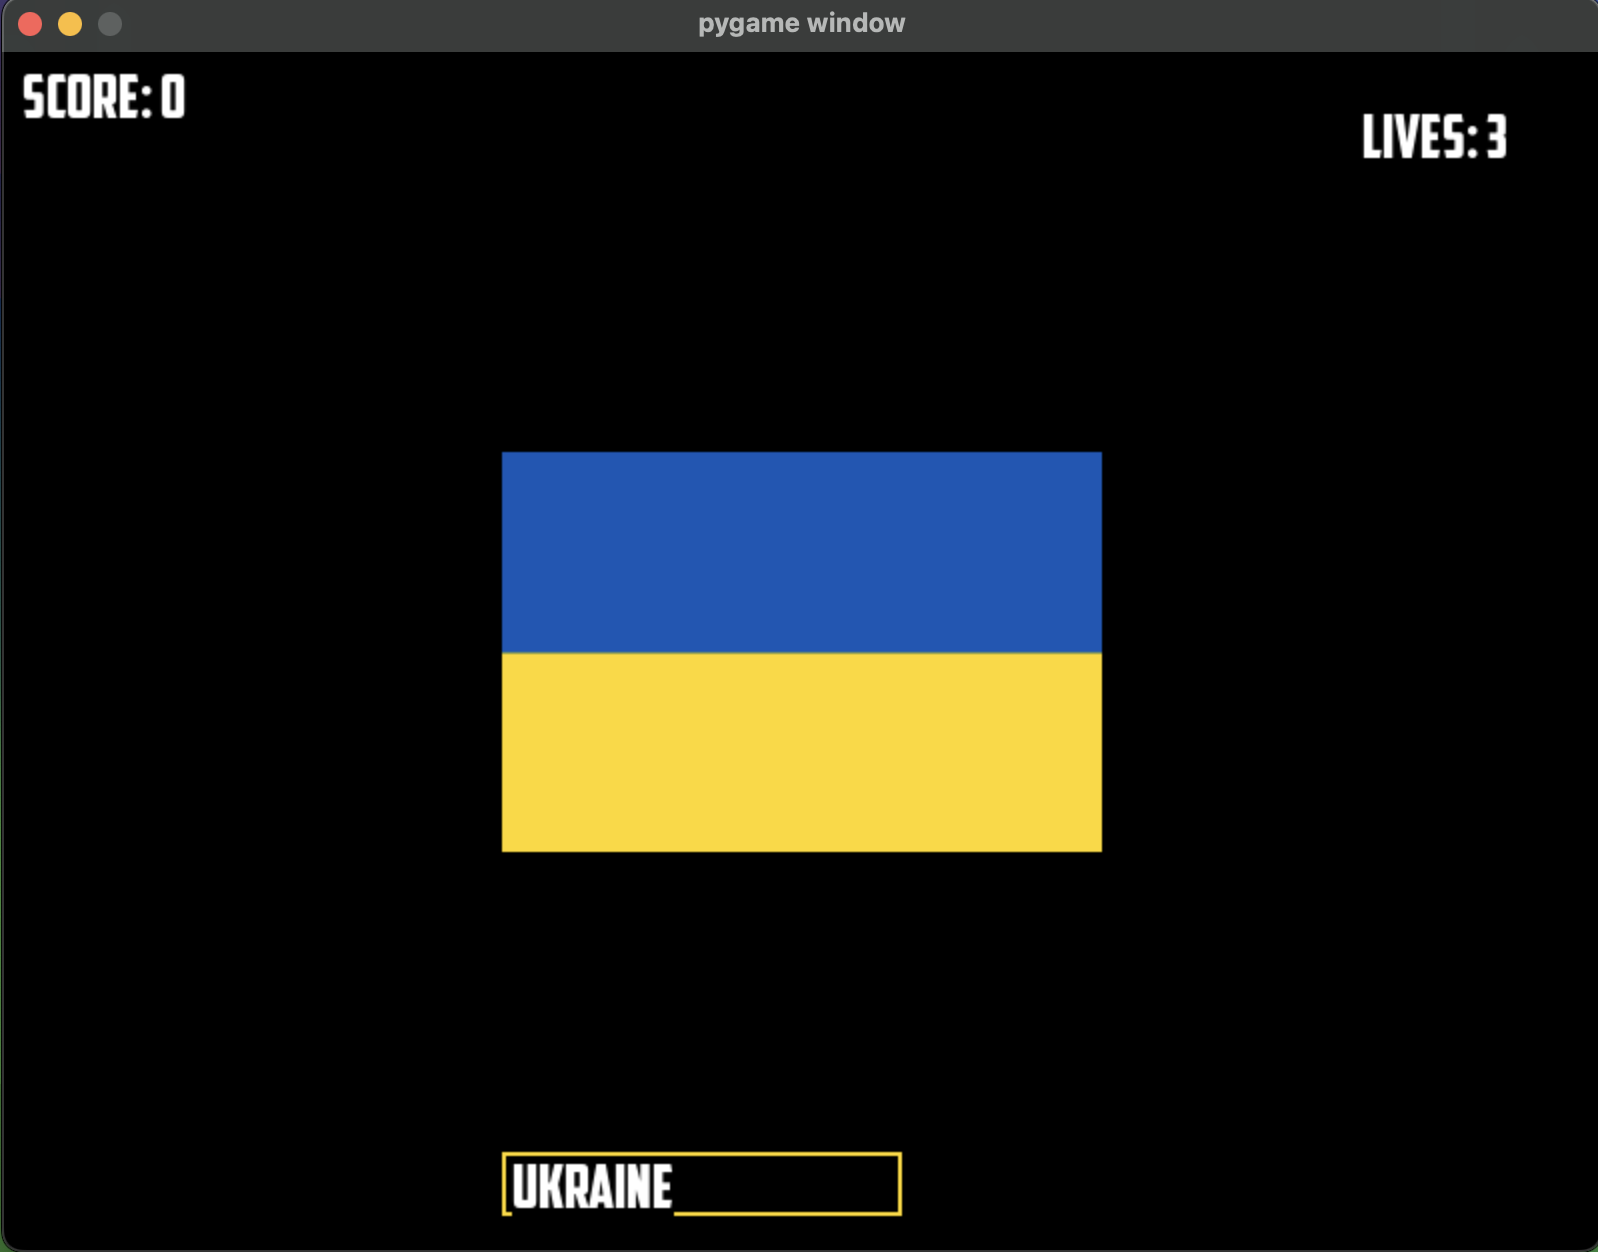
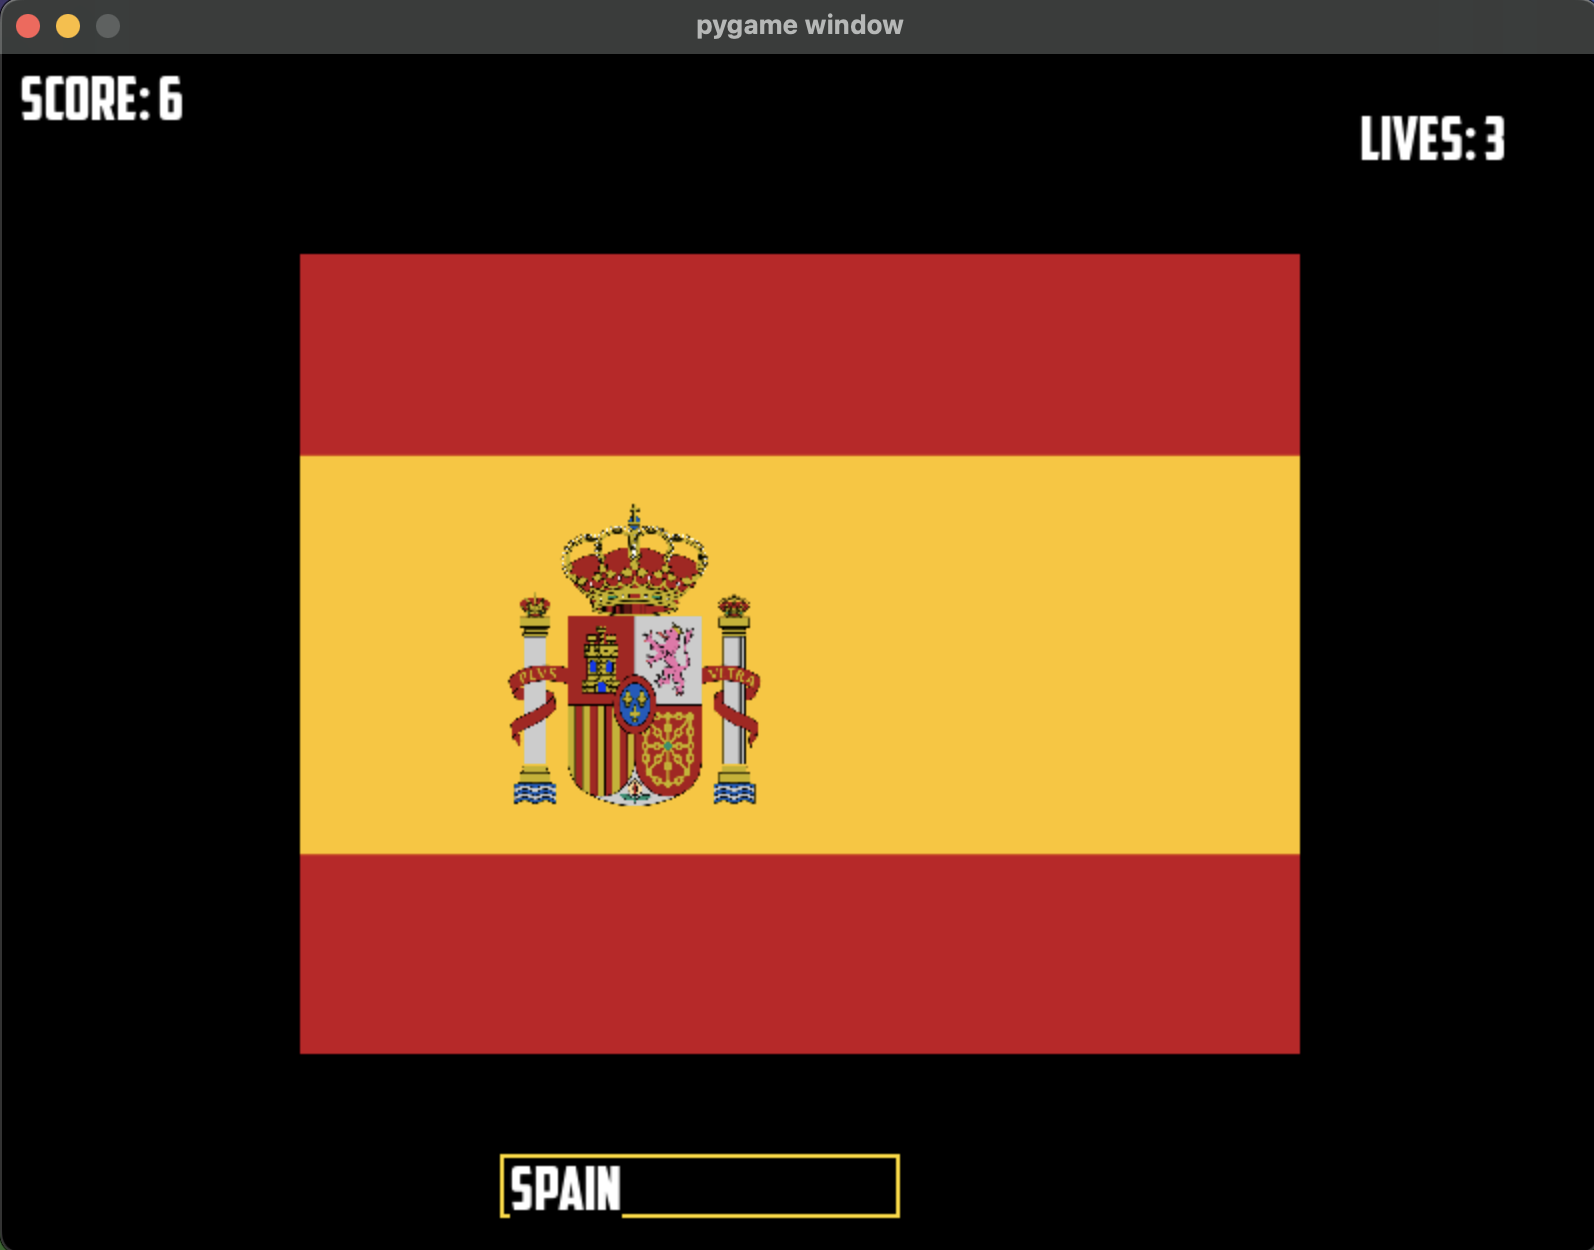
changed image

diff --git a/gui.py b/gui.py
@@ -7,7 +7,7 @@ class gui:
     def __init__(self, game_countries):
         self.width, self.height = 800, 600
         self.screen = pygame.display.set_mode((self.width, self.height))
-        self.flag_size = (300, 200)
+        self.flag_size = (500, 400)
         self.flags = {country: pygame.transform.scale(pygame.image.load(os.path.join("data/flags", filename)),
                                                     self.flag_size) for country,
                                                     filename in game_countries.getResult().items()}

diff --git a/README.md b/README.md
@@ -5,3 +5,4 @@ this will be a cool game about guessing flags
 ![Alt text](screenshots/image-1.png)
 
 ![Alt text](screenshots/youlose.png)
+
